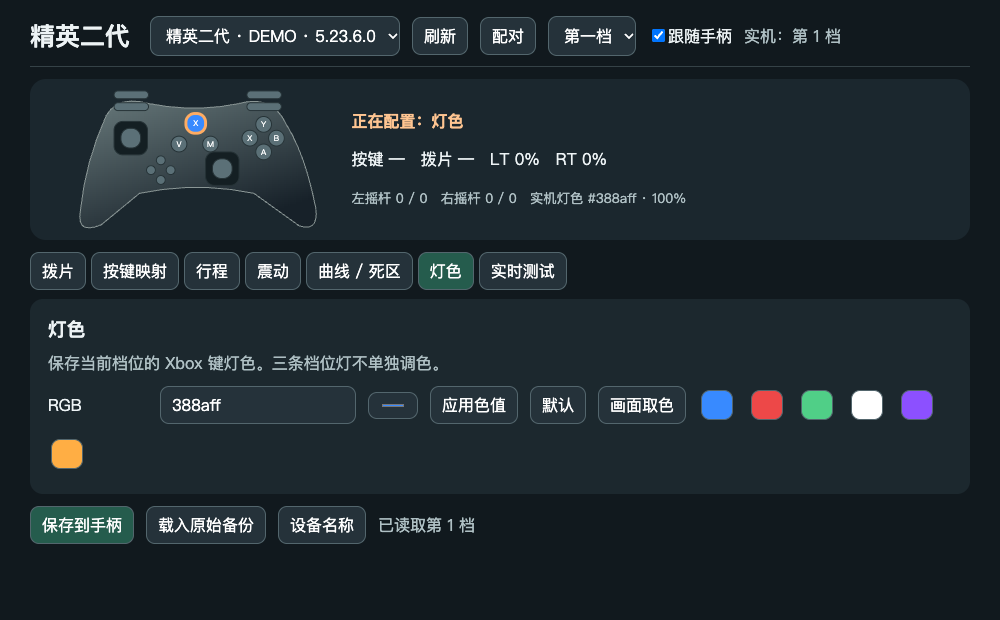
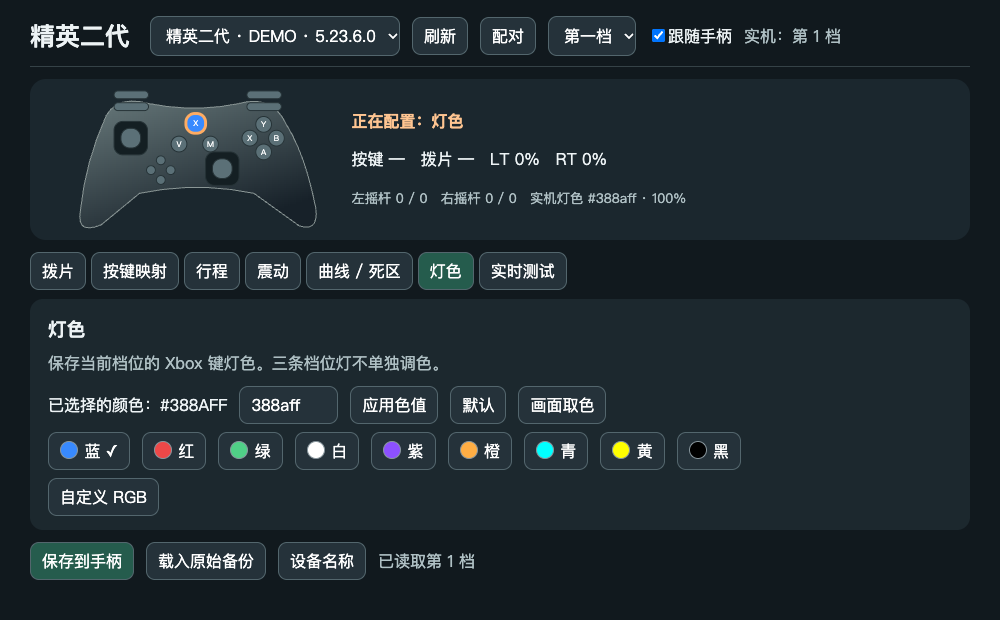
Make Android TV color selection respond directly to controller confirmation

Changed region(s): [[0.031, 0.6129, 0.93, 0.7661], [0.031, 0.7048, 0.496, 0.95]]

diff --git a/android/assets/studio.js b/android/assets/studio.js
@@ -30,8 +30,56 @@ if(tab===0||tab===1){let grid=make('div');grid.className='grid';p.append(grid);l
 if(tab===2||tab===3){let rng=tab===2;(rng?['LT','左摇杆','RT','右摇杆']:['弱马达','强马达','RT 震动','LT 震动']).forEach((n,i)=>{let k=(rng?['LT','LS','RT','RS']:['rightGrip','leftGrip','RT','LT'])[i],off=(rng?[32,34,38,40]:[28,29,30,31])[i],r=label(p,n),s=make('input'),o=make('output',v[off]);s.type='range';s.max=rng?255:100;s.value=v[off];s.onfocus=()=>mark(k,n);s.oninput=()=>{v[off]=+s.value;o.textContent=s.value;edit();mark(k,n+' · '+s.value)};r.append(s,o)})}
 if(tab===4){let presets=[[43,43,127,127,191,191],[43,20,127,96,191,175],[43,70,127,160,191,215],[13,0,127,120,191,187],[26,0,127,112,191,184],[38,0,127,105,191,180]];
 ['左 X','左 Y','右 X','右 Y'].forEach((n,i)=>{let a=1+6*i,r=label(p,n),f=make('input');f.size=19;f.value=c.slice(a,a+6).join(',');let k=i<2?'LS':'RS';f.onfocus=()=>mark(k,n);let apply=vals=>{if(vals.length!==6||!vals.every(x=>Number.isInteger(x)&&x>=0&&x<=255)||!(0<vals[0]&&vals[0]<vals[2]&&vals[2]<vals[4]&&vals[4]<255&&vals[1]<=vals[3]&&vals[3]<=vals[5])){msg('曲线无效：须有三个递增输入点和非递减输出');f.value=c.slice(a,a+6).join(',');return}c.splice(a,6,...vals);f.value=vals.join(',');edit();mark(k,n)};f.onchange=()=>apply(f.value.split(',').map(x=>x.trim()===''?NaN:Number(x)));r.append(f);select(r,['自定义','线性','中心精细','快速响应','死区 5%','死区 10%','死区 15%'].map((t,j)=>[j,t]),presets.findIndex(v=>v.join(',')===f.value)+1,x=>{if(+x)apply(presets[+x-1])});const svg=document.createElementNS('http://www.w3.org/2000/svg','svg');svg.setAttribute('viewBox','0 0 255 255');svg.style='width:72px;height:40px;background:#24363b';let line=document.createElementNS(svg.namespaceURI,'polyline');svg.append(line);function draw(){let d=c.slice(a,a+6);line.setAttribute('points','0,255 '+[0,2,4].map(j=>d[j]+','+(255-d[j+1])).join(' ')+' 255,0');line.setAttribute('style','stroke:#7bdfa8;stroke-width:8;fill:none')}r.append(svg);r.addEventListener('change',draw);draw()})}
-if(tab===5){let color=v.slice(46,49).map(x=>x.toString(16).padStart(2,'0')).join(''),r=label(p,'RGB'),f=make('input'),pick=make('input');pick.type='color';pick.value='#'+color;f.value=v[45]===255?'默认':color;let set=x=>{if(x!==null&&!/^#?[0-9a-f]{6}$/i.test(x)){msg('请输入六位 RGB');return}let n=x===null?0:parseInt(x.replace('#',''),16);for(let a of draft.slice(0,2))a.splice(45,4,x===null?255:0,n>>16,n>>8&255,n&255);edit();render()};pick.onchange=()=>set(pick.value);r.append(f,pick);button(r,'应用色值',()=>set(f.value));button(r,'默认',()=>set(null));button(r,'画面取色',()=>{const token=device,ss=slot;window.pickedColor=x=>{if(draft&&slot===ss&&device===token)set(x)};Studio.pickScreen()});for(let x of ['388aff','ed4848','50cf87','ffffff','8c50ff','ffae44']){let b=button(r,'',()=>set(x));b.className='swatch';b.style.background='#'+x;b.setAttribute('aria-label',x)}}
+if(tab===5)renderColors(p);
 if(tab===6)['握把强','握把弱','左扳机','右扳机'].forEach((n,i)=>button(p,'测试 '+n,()=>{api('pulse',{motor:i});msg('已发送短震动')}))}
+function renderColors(panel){
+  const row=make('div'), hex=make('input'), chosen=make('output'), sliders=[], swatches=[];
+  row.className='field'; panel.append(row);
+  hex.setAttribute('aria-label','六位 RGB 色值'); hex.size=8;
+  row.append(chosen,hex);
+  const set=value=>{
+    const code=value===null?null:value.replace(/^#/,'').toLowerCase();
+    if(code!==null&&!/^[0-9a-f]{6}$/.test(code)){msg('请输入六位 RGB');return}
+    const rgb=parseInt(code||'ffffff',16);
+    for(const page of draft.slice(0,2))
+      page.splice(45,4,code===null?255:0,...(code===null?[0,0,0]:[rgb>>16,(rgb>>8)&255,rgb&255]));
+    edit(); sync(); paint();
+  };
+  button(row,'应用色值',()=>set(hex.value));
+  const defaultButton=button(row,'默认',()=>set(null));
+  button(row,'画面取色',()=>{
+    const original=draft;
+    window.pickedColor=x=>{if(draft===original&&tab===5)set(x)};
+    Studio.pickScreen();
+  });
+  const palette=make('div');palette.className='field';panel.append(palette);
+  for(const [name,code] of [['蓝','388aff'],['红','ed4848'],['绿','50cf87'],['白','ffffff'],['紫','8c50ff'],['橙','ffae44'],['青','00ffff'],['黄','ffff00'],['黑','000000']]){
+    const b=button(palette,name,()=>set(code));b.className='color-choice';
+    b.style.setProperty('--sample','#'+code);swatches.push([b,code]);
+  }
+  const controls=make('div'); controls.hidden=true;
+  const custom=button(panel,'自定义 RGB',()=>{
+    controls.hidden=!controls.hidden;custom.setAttribute('aria-expanded',String(!controls.hidden));
+    if(!controls.hidden)sliders[0].focus();
+  });
+  custom.setAttribute('aria-expanded','false');panel.append(controls);
+  for(const name of ['红 R','绿 G','蓝 B']){
+    const r=label(controls,name), bar=make('input'), out=make('output');
+    bar.type='range';bar.min=0;bar.max=255;
+    bar.oninput=()=>set(sliders.map(s=>Number(s.value).toString(16).padStart(2,'0')).join(''));
+    r.append(bar,out);sliders.push(bar);
+  }
+  function sync(){
+    const page=draft[0], standard=page[45]===255;
+    const rgb=standard?[255,255,255]:page.slice(46,49);
+    const code=rgb.map(n=>n.toString(16).padStart(2,'0')).join('');
+    chosen.textContent='已选择的颜色：'+(standard?'默认':'#'+code.toUpperCase());
+    hex.value=code;defaultButton.setAttribute('aria-pressed',String(standard));
+    for(const [b,x] of swatches)b.setAttribute('aria-pressed',String(!standard&&code===x));
+    sliders.forEach((bar,i)=>{bar.value=rgb[i];bar.nextElementSibling.textContent=rgb[i]});
+  }
+  sync();
+}
 let drawn='';
 function paint(){let a=live,r=$('parts');if(!r)return;let hash=[focus,target,tab,a.slice(1).join(),!!a[0],draft?.[0]?.slice(45,49).join()].join('/');if(hash===drawn)return;drawn=hash;
 let buttons=['A','B','X','Y','D4','D5','D6','D7','LB','RB','LS','RS','Menu','View','Xbox'],pressed=k=>(a[1]||0)&(1<<buttons.indexOf(k)),lt=Math.round((a[2]||0)*100/1023),rt=Math.round((a[3]||0)*100/1023),rgb=a[10],clr=rgb>=0?'#'+rgb.toString(16).padStart(6,'0'):'#444';

diff --git a/android/assets/style.css b/android/assets/style.css
@@ -1,1 +1,4 @@
 *{box-sizing:border-box}body{margin:0 auto;background:#11191e;color:#edf3f5;font:16px Roboto,sans-serif;max-width:1280px;padding:2.5vh 3vw}header,nav,footer,section,.field{display:flex;align-items:center;gap:12px;flex-wrap:wrap}header{border-bottom:1px solid #354247;padding-bottom:10px}header b{font-size:25px;margin-right:8px}button,select,input{font:inherit;background:#25323a;border:1px solid #53666d;border-radius:9px;color:#fff;padding:7px 11px}button:focus,select:focus,input:focus{outline:3px solid #a9f8c4;outline-offset:2px}button:disabled{opacity:.4}.primary,nav .sel{background:#255c4d}#display{flex-wrap:nowrap;background:#1b272e;border-radius:16px;margin:12px 0;padding:6px 24px}svg{width:32%;max-height:155px}aside{flex:1}aside strong{color:#ffc591}small,#physical,#status,.hint{color:#afc0c4}nav{gap:5px}article{padding:14px 18px;background:#1c282e;border-radius:13px;margin:9px 0;min-height:110px}article h3{margin:3px 0 10px}.hint{margin:6px 0 12px}footer{padding:3px 0 20px}.field{margin:8px 0}.field>span:first-child{min-width:100px}input[type=range]{width:180px;accent-color:#78d7a7}.swatch{width:32px;height:30px;margin:3px}.grid{display:grid;grid-template-columns:1fr 1fr;gap:0 12px}svg text{pointer-events:none;font:8px sans-serif;text-anchor:middle;fill:#fff}
+
+.color-choice::before{content:"";display:inline-block;width:1em;height:1em;border:1px solid #86949b;border-radius:50%;background:var(--sample);vertical-align:-.15em;margin-right:.4em}
+button[aria-pressed="true"]::after{content:" ✓"}

diff --git a/README.md b/README.md
@@ -22,7 +22,7 @@
 
 ![电视端第一档灯色编辑界面，含六位 RGB 色值、色板与保存按钮](docs/images/profile-color.png)
 
-图中第一档的示例灯色是 `#388AFF`。开启「跟随手柄」后，用实体档位键切换第 1–3 档，编辑器会读取对应配置；开始编辑后会暂停跟随。默认档仅供查看。固件尚未报告的输入或灯色会显示等待或未知。
+电视端用方向键移到颜色按钮，按 A 后「已选择的颜色」和勾选标记会立即更新；需要微调时打开「自定义 RGB」。选好后点「保存到手柄」才会写入。图中第一档的示例灯色是 `#388AFF`。开启「跟随手柄」后，用实体档位键切换第 1–3 档，编辑器会读取对应配置；开始编辑后会暂停跟随。默认档仅供查看。固件尚未报告的输入或灯色会显示等待或未知。
 
 ## 安装与第一次使用
 
